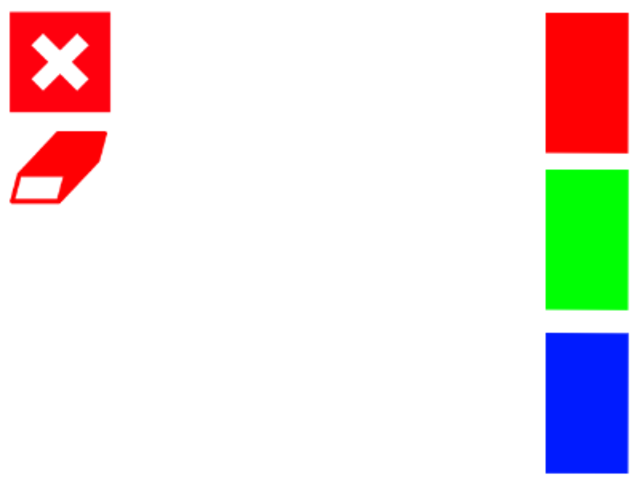
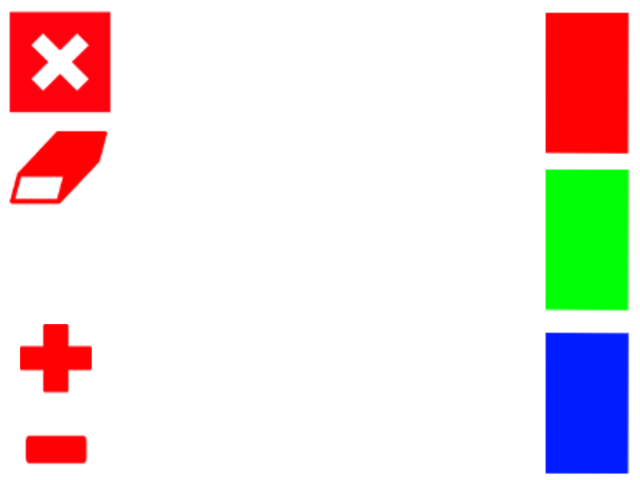
Layout change

Changed region(s): [[0.0312, 0.6562, 0.1562, 0.8438], [0.0312, 0.9062, 0.1562, 0.9688]]

diff --git a/liveVideo.cpp b/liveVideo.cpp
@@ -102,7 +102,7 @@ int main(int argc, char** argv){
 	// Mat to concatenate frame and drawPanel
 	Mat output(height, width*2, CV_8UC3, Scalar::all(0));
 
-	Mat layout = imread("paint2.png", -1);
+	Mat layout = imread("paint.png", -1);
 	Mat mask; 
 	tie(mask, layout) = getMask(layout);
 	
